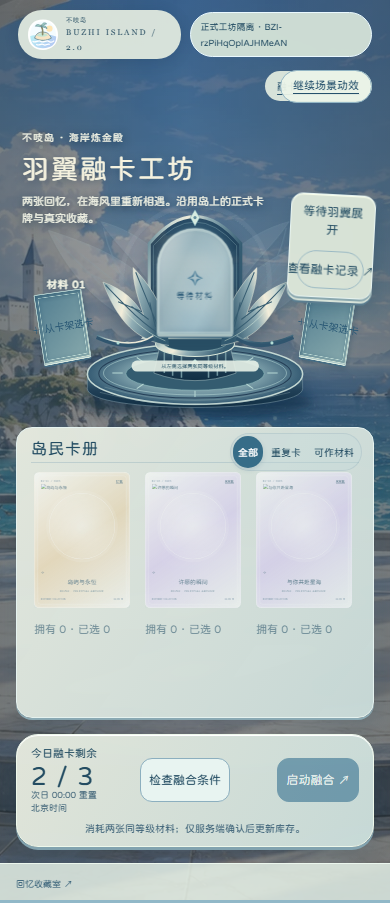
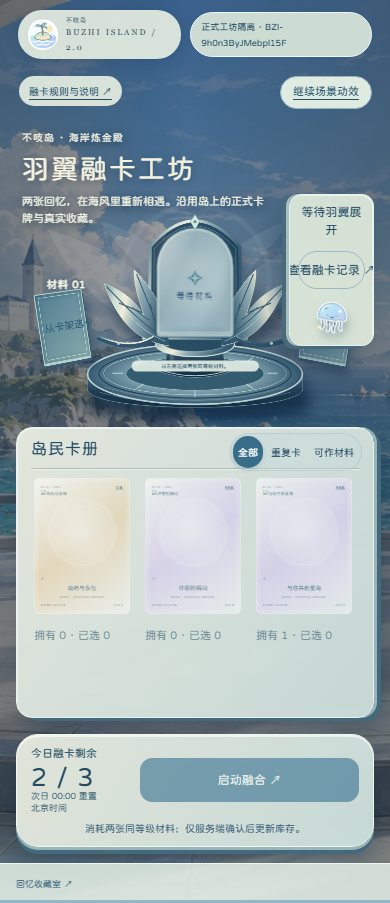
feat: simplify workshop activation and refine scene depth

diff --git a/ui-preview/fusion.html b/ui-preview/fusion.html
@@ -1,9 +1,9 @@
 <!doctype html><html lang="zh-CN"><head><meta charset="utf-8"><meta name="viewport" content="width=device-width,initial-scale=1"><meta name="theme-color" content="#d9eef1"><title>羽翼融卡工坊 · 不吱岛</title><link rel="stylesheet" href="official-card.css"><link rel="stylesheet" href="workshop-fusion.css"><link rel="stylesheet" href="workshop-integration-finish.css"><link rel="stylesheet" href="workshop-collectible-material.css"><link rel="stylesheet" href="workshop-official-card-presentation.css"><script src="official-card.js"></script><link rel="stylesheet" href="workshop-visual-repair.css"></head><body data-state="idle"><div class="atelier-world" aria-hidden="true"></div><header><a href="/" class="brand">不吱岛<span>BUZHI ISLAND / 2.0</span></a><span class="mock-badge">正在读取岛民账户…</span><button id="rules-button">融卡规则与说明 ↗</button></header><main><section class="title"><p>不吱岛 · 海岸炼金殿</p><h1>羽翼融卡工坊</h1><span>两张回忆，在海风里重新相遇。沿用岛上的正式卡牌与真实收藏。</span></section>
 <aside class="collection-cabinet"><div class="cabinet-header"><h2>岛民卡册</h2><span id="owned-count"></span></div><div class="shelf-tabs" role="group" aria-label="筛选卡片"><button data-filter="all" aria-pressed="true">全部</button><button data-filter="duplicate" aria-pressed="false">重复卡</button><button data-filter="eligible" aria-pressed="false">可作材料</button></div><p class="cabinet-note">选择两张同等级 N / R / SR；不是保底升阶。</p><div id="rack" class="card-rack" aria-label="我的正式收藏"></div><p class="shelf-foot">卡面与库存由服务器同步</p></aside>
 <section class="fusion-theatre" aria-label="羽翼融合装置"><div class="machine"><svg class="tracks" viewBox="0 0 680 430" aria-hidden="true"><defs><linearGradient id="trackInk"><stop stop-color="#dbeff3"/><stop offset=".5" stop-color="#faf8e9"/><stop offset="1" stop-color="#9ebfcb"/></linearGradient></defs><path d="M86 276C160 313 231 252 340 207C449 252 520 313 594 276" fill="none" stroke="url(#trackInk)" stroke-width="9"/><path d="M86 276C160 313 231 252 340 207C449 252 520 313 594 276" fill="none" stroke="#658eaa" stroke-width="1"/><ellipse cx="340" cy="308" rx="225" ry="72" fill="#d7ebee" fill-opacity=".1" stroke="#dcebf2" stroke-opacity=".5"/><path d="M211 310V154Q340 28 469 154V310" fill="none" stroke="#b7d2dc" stroke-width="5"/><path d="M220 310V158Q340 42 460 158V310" fill="none" stroke="#faf9eb" stroke-width="2"/></svg><div class="wing-layer" aria-hidden="true"><svg viewBox="0 0 640 300"><defs><g id="fusionWing"><path d="M312 247C233 233 116 206 38 40C130 69 190 97 238 148C202 93 164 63 139 23C223 46 279 103 309 163" fill="#edfaff" fill-opacity=".55" stroke="#d3eef6" stroke-width="1.4"/><path d="M306 238C215 211 121 140 48 49M287 225C205 179 161 116 144 35M240 198L99 85M219 182L150 95M197 163L103 116M281 216L217 89M302 225L269 116" fill="none" stroke="#b2d5e4" stroke-width="2"/></g></defs><use href="#fusionWing"/><use href="#fusionWing" transform="translate(640 0) scale(-1 1)"/></svg></div><div class="ritual-orbit" aria-hidden="true"><svg viewBox="0 0 400 400" fill="none"><g stroke="currentColor"><circle cx="200" cy="200" r="172"/><circle cx="200" cy="200" r="164" stroke-width=".6"/><circle cx="200" cy="200" r="149" stroke-dasharray="1 9" stroke-width="2"/><circle cx="200" cy="200" r="122" stroke-width=".5"/><path d="M200 14v34m0 304v34M14 200h34m304 0h34M69 69l24 24m214 214 24 24M69 331l24-24m214-214 24-24"/><path d="m200 32 6 15-6 15-6-15Zm0 306 6 15-6 15-6-15ZM32 200l15-6 15 6-15 6Zm306 0 15-6 15 6-15 6Z"/><path d="M114 309q43-12 86 0t86 0m-148 10q31-8 62 0t62 0" stroke-width=".7"/></g></svg></div><div class="fusion-beam" aria-hidden="true"></div><div class="fusion-tide" aria-hidden="true"><i></i><i></i></div><div class="reveal-sweep" aria-hidden="true"><span>✦</span><i></i><b>✧</b></div><div class="fusion-particles" aria-hidden="true"></div><div class="fusion-light" aria-hidden="true"></div><div class="device-halo" aria-hidden="true"></div><div class="central-card" id="central-card"></div><span class="device-caption">羽 翼 共 鸣 装 置</span><div class="material-slot slot-one" id="slot-one"></div><div class="material-slot slot-two" id="slot-two"></div><span class="slot-label label-one">材料 01</span><span class="slot-label label-two">材料 02</span><div class="machine-stand" aria-hidden="true"><i></i><span>BUZHI / WING TRANSMUTATION</span></div><div class="platform" aria-hidden="true"></div></div><div class="stage-status"><span id="state-tag">等待材料</span><h2 id="status-title">每一次重逢，都有它的位置。</h2><p id="status-text" role="status">从收藏架选卡，或点击材料槽移除已选卡。</p></div></section>
-<aside class="result-cabinet"><div class="cabinet-header"><h2>融合观测笺</h2><span>ISLAND ARCHIVE</span></div><div id="result-card" class="result-card"></div><div class="result-info"><span id="result-kind">结果未揭晓</span><h3 id="result-name">等待羽翼展开</h3><p id="result-copy">融合后揭晓结果；检查条件不会提前抽取或显示卡片。</p></div><div class="pool-note"><span>规则允许的结果等级</span><div id="pool-list">放入材料后显示</div><small>按公开卡逐张抽取，不能解读为等稀有度概率。</small></div><button id="history-button" class="text-button">查看融卡记录 <span id="history-count">00</span> ↗</button></aside>
-<section class="action-dock" aria-label="融合操作"><div class="quota"><small>今日融卡剩余</small><strong id="quota-value">—</strong><span><span class="desktop-status">北京时间次日 00:00 重置</span><span class="mobile-status">次日 00:00 重置<br>北京时间</span></span></div><div class="action-buttons"><button id="preview-button">检查融合条件</button><button class="primary" id="fuse-button" disabled>启动融合 ↗</button><button id="skip-animation" hidden>跳过动画，查看结果 →</button></div><p>消耗两张同等级材料；仅服务端确认后更新库存。</p></section></main><footer><span>同一海岛，另一种收藏的温柔。</span><a href="/collection.html">回忆收藏室 ↗</a><span>不吱岛 · 羽翼融卡工坊</span></footer>
-<dialog id="rules-dialog" aria-labelledby="rules-title"><div class="dialog-header"><h2 id="rules-title">原规则 → 工坊界面</h2><button class="close" aria-label="关闭规则">×</button></div><p class="important">真实库存与结果由不吱岛服务器确认；不保证升阶，也可能获得已拥有的卡。</p><ol><li>两张已公开、同等级 N / R / SR；可选不同 ID。同 ID 需拥有至少两张，不自动保留一张。</li><li>每天基础3次，另计领取的当日补发次数；按北京时间日期计数，次日 00:00 重置。</li><li>N → N / SR / SSR / UR；R → N / R / SSR / UR；SR → 所有五个等级。不保证升阶。</li><li>服务端从符合等级的公开卡中逐张均匀随机选择；不是按稀有度等概率。允许出现已拥有卡，也可能返回材料同 ID。</li><li>仅消耗两张材料并增加一张结果；该函数没有扣金币或额外材料逻辑。</li><li>正式接口要求已认证岛民，requestId 幂等；本页沿用正式认证与幂等接口。</li></ol><p>检查条件不抽取、不显示结果卡；结果由服务器生成，检查条件不会提前抽卡。规则来源与待确认项详见交付的「业务规则与接入.md」。</p></dialog>
+<aside class="result-cabinet"><div class="cabinet-header"><h2>融合观测笺</h2><span>ISLAND ARCHIVE</span></div><div id="result-card" class="result-card"></div><div class="result-info"><span id="result-kind">结果未揭晓</span><h3 id="result-name">等待羽翼展开</h3><p id="result-copy">选好材料后直接融合，结果由服务器确认后揭晓。</p></div><div class="pool-note"><span>规则允许的结果等级</span><div id="pool-list">放入材料后显示</div><small>按公开卡逐张抽取，不能解读为等稀有度概率。</small></div><button id="history-button" class="text-button">查看融卡记录 <span id="history-count">00</span> ↗</button></aside>
+<section class="action-dock" aria-label="融合操作"><div class="quota"><small>今日融卡剩余</small><strong id="quota-value">—</strong><span><span class="desktop-status">北京时间次日 00:00 重置</span><span class="mobile-status">次日 00:00 重置<br>北京时间</span></span></div><div class="action-buttons"><button class="primary" id="fuse-button" disabled>启动融合 ↗</button><button id="skip-animation" hidden>跳过动画，查看结果 →</button></div><p>消耗两张同等级材料；仅服务端确认后更新库存。</p></section></main><footer><span>同一海岛，另一种收藏的温柔。</span><a href="/collection.html">回忆收藏室 ↗</a><span>不吱岛 · 羽翼融卡工坊</span></footer>
+<dialog id="rules-dialog" aria-labelledby="rules-title"><div class="dialog-header"><h2 id="rules-title">原规则 → 工坊界面</h2><button class="close" aria-label="关闭规则">×</button></div><p class="important">真实库存与结果由不吱岛服务器确认；不保证升阶，也可能获得已拥有的卡。</p><ol><li>两张已公开、同等级 N / R / SR；可选不同 ID。同 ID 需拥有至少两张，不自动保留一张。</li><li>每天基础3次，另计领取的当日补发次数；按北京时间日期计数，次日 00:00 重置。</li><li>N → N / SR / SSR / UR；R → N / R / SSR / UR；SR → 所有五个等级。不保证升阶。</li><li>服务端从符合等级的公开卡中逐张均匀随机选择；不是按稀有度等概率。允许出现已拥有卡，也可能返回材料同 ID。</li><li>仅消耗两张材料并增加一张结果；该函数没有扣金币或额外材料逻辑。</li><li>正式接口要求已认证岛民，requestId 幂等；本页沿用正式认证与幂等接口。</li></ol><p>选好材料后可直接融合；提交前仍会校验，结果仅由服务器生成。规则来源与待确认项详见交付的「业务规则与接入.md」。</p></dialog>
 <dialog id="history-dialog" aria-labelledby="history-title"><div class="dialog-header"><h2 id="history-title">融卡记录</h2><button class="close" aria-label="关闭记录">×</button></div><p>记录来自服务器，刷新后仍可查看。</p><div id="history-list"></div></dialog>
 
 <script src="workshop-live.js"></script><script src="workshop-visual-repair.js"></script></body></html>

diff --git a/ui-preview/workshop-live.js b/ui-preview/workshop-live.js
@@ -10,11 +10,11 @@ function face(c){return '<span class="bzi-official-card-host">'+window.BziOffici
 function empty(label='等待材料'){return '<div class="empty-card"><b>✧</b><span>'+label+'</span></div>'}
 const card=id=>cards.find(c=>c.id===id),owned=id=>Number(profile?.inventory?.[id]||0),remaining=id=>owned(id)-selected.filter(x=>x===id).length;
 function valid(){if(!profile)return '请先登录岛民通行证。';if(profile.membership?.status!=='verified')return '请完成岛民认证后使用融卡。';if(profile.fusionDaily.used>=profile.fusionDaily.limit)return '今日融卡次数已用尽。';if(selected.length!==2)return '请选择两张材料卡。';const [a,b]=selected.map(card);if(!a||!b||!allowed[a.rarity]||a.rarity!==b.rarity)return '请选择同等级的N、R或SR卡。';if(owned(a.id)<(a.id===b.id?2:1)||owned(b.id)<1)return '材料卡数量不足，请刷新收藏。';return ''}
-function render(){cardSizes.disconnect();const rack=$('#rack');rack.replaceChildren();for(const c of cards.filter(c=>filter==='duplicate'?owned(c.id)>1:filter==='eligible'?allowed[c.rarity]&&owned(c.id)>0:true)){const b=document.createElement('button');b.type='button';b.className='rack-item';b.dataset.card=c.id;b.setAttribute('aria-label',c.name+' '+c.rarity+'，拥有'+owned(c.id)+'张');b.setAttribute('aria-pressed',String(selected.includes(c.id)));b.disabled=busy||!!pending||!allowed[c.rarity]||remaining(c.id)<1;b.innerHTML=face(c)+'<span class="rack-meta">拥有 '+owned(c.id)+' · 已选 '+selected.filter(x=>x===c.id).length+'</span>';b.onclick=()=>{if(selected.length===2){message('材料槽已满','请先点击材料槽移除一张。');return}selected.push(c.id);result=null;phase='idle';render();message('材料已放入','选择两张同等级材料，检查后开始融合。')};rack.append(b)}
+function render(){cardSizes.disconnect();const rack=$('#rack');rack.replaceChildren();for(const c of cards.filter(c=>filter==='duplicate'?owned(c.id)>1:filter==='eligible'?allowed[c.rarity]&&owned(c.id)>0:true)){const b=document.createElement('button');b.type='button';b.className='rack-item';b.dataset.card=c.id;b.setAttribute('aria-label',c.name+' '+c.rarity+'，拥有'+owned(c.id)+'张');b.setAttribute('aria-pressed',String(selected.includes(c.id)));b.disabled=busy||!!pending||!allowed[c.rarity]||remaining(c.id)<1;b.innerHTML=face(c)+'<span class="rack-meta">拥有 '+owned(c.id)+' · 已选 '+selected.filter(x=>x===c.id).length+'</span>';b.onclick=()=>{if(selected.length===2){message('材料槽已满','请先点击材料槽移除一张。');return}selected.push(c.id);result=null;phase='idle';render();message('材料已放入','选择两张同等级材料，选好直接融合。')};rack.append(b)}
  ['#slot-one','#slot-two'].forEach((s,i)=>{const host=$(s),c=card(selected[i]);host.classList.toggle('filled',!!c);host.replaceChildren();const b=document.createElement('button');b.type='button';b.disabled=busy||!!pending;b.className=c?'remove-card':'empty-slot';b.innerHTML=c?face(c):'＋ 从卡架选卡';b.setAttribute('aria-label',c?'移除材料'+(i+1):'选择材料'+(i+1));b.onclick=()=>{if(c)selected.splice(i,1);else $('#rack').scrollIntoView({block:'nearest'});phase='idle';result=null;render()};host.append(b)});
  const daily=profile?.fusionDaily;$('#quota-value').textContent=daily?Math.max(0,daily.limit-daily.used)+' / '+daily.limit:'—';$('#owned-count').textContent=profile?Object.values(profile.inventory||{}).reduce((a,b)=>a+b,0)+' 张收藏':'未登录';$('#history-count').textContent=String(profile?.fusions?.length||0);
  $('#central-card').innerHTML=result?face(result):empty();$('#result-card').innerHTML=result?face(result):empty('融合后揭晓');$('#result-kind').textContent=result?'服务端已确认':'结果未揭晓';$('#result-name').textContent=result?.name||'等待羽翼展开';$('#result-copy').textContent=result?'库存与次数已由服务器更新。':'只有服务端确认后才展示结果，不保证升阶或获得新卡。';const rarity=card(selected[0])?.rarity;$('#pool-list').textContent=allowed[rarity]?.join(' / ')||'放入材料后显示';
- $('#preview-button').disabled=busy||!!pending;$('#fuse-button').disabled=busy||(!pending&&(phase!=='ready'||!!valid()));$('#fuse-button').textContent=pending?'核对并重试原请求':'启动融合 ↗';$('#skip-animation').hidden=phase!=='fusing';document.body.dataset.state=phase;document.body.className='state-'+phase;if(document.hidden)document.body.classList.add('motion-suspended');document.querySelectorAll('[data-filter]').forEach(b=>b.setAttribute('aria-pressed',String(b.dataset.filter===filter)));document.querySelectorAll('.bzi-official-card-host').forEach(h=>{h.style.setProperty('--card-scale',String(h.clientWidth/300));cardSizes.observe(h)});
+ $('#fuse-button').disabled=busy||(!pending&&!!valid());$('#fuse-button').textContent=pending?'核对并重试原请求':'启动融合 ↗';$('#skip-animation').hidden=phase!=='fusing';document.body.dataset.state=phase;document.body.className='state-'+phase;if(document.hidden)document.body.classList.add('motion-suspended');document.querySelectorAll('[data-filter]').forEach(b=>b.setAttribute('aria-pressed',String(b.dataset.filter===filter)));document.querySelectorAll('.bzi-official-card-host').forEach(h=>{h.style.setProperty('--card-scale',String(h.clientWidth/300));cardSizes.observe(h)});
 }
 function savePending(){const key='buzhi-fusion-pending:'+profile.id;if(pending)sessionStorage.setItem(key,JSON.stringify(pending));else sessionStorage.removeItem(key)}
 async function refresh(){if(credential!==token())throw Error('登录账号已切换，请刷新页面。');profile=await api('me');}
@@ -22,7 +22,7 @@ async function fuse(){if(busy)return;if(credential!==token()){message('登录状
  try{const response=await api('fuse',{first:pending.first,second:pending.second,requestId:pending.requestId});if(credential!==token())throw Error('账号已切换；请回到原账号核对结果。');profile=response.profile;const received=card(response.card.id);if(!received)throw Error('结果已确认但卡册暂未同步，请保留原请求刷新核对。');pending=null;savePending();const reveal=()=>{timer=null;finishReveal=null;if(credential!==token()){profile=null;selected=[];result=null;busy=false;phase='error';render();message('登录账号已切换','请刷新页面后核对当前账号。');return}result=received;selected=[];busy=false;phase='success';render();message('融合已确认','新卡已进入收藏，材料和次数以服务器记录为准。')};finishReveal=reveal;if(skip||matchMedia('(prefers-reduced-motion: reduce)').matches)reveal();else timer=setTimeout(reveal,1200)}
  catch(e){busy=false;phase='error';if(pending){if(!wasUncertain&&e.status>=400&&e.status<500){pending=null;savePending();try{await refresh()}catch{}message('融合未完成',e.message)}else{pending.uncertain=true;savePending();message('结果待核对',e.message+'；材料已锁定，请点击重试原请求，不会新建一次融合。')}}render()}
 }
-$('#preview-button').onclick=()=>{result=null;const error=valid();phase=error?'insufficient':'ready';render();message(error?'条件不足':'条件已满足',error||'将消耗两张材料和一次融卡机会；结果在融合后揭晓。')};$('#fuse-button').onclick=fuse;$('#skip-animation').onclick=()=>{skip=true;if(timer){clearTimeout(timer);finishReveal?.()}};
+$('#fuse-button').onclick=fuse;$('#skip-animation').onclick=()=>{skip=true;if(timer){clearTimeout(timer);finishReveal?.()}};
 document.querySelectorAll('[data-filter]').forEach(b=>b.onclick=()=>{filter=b.dataset.filter;render()});$('#rules-button').onclick=()=>$('#rules-dialog').showModal();$('#history-button').onclick=()=>{const list=$('#history-list');list.replaceChildren();for(const f of profile?.fusions||[]){const p=document.createElement('p');p.textContent=(card(f.first)?.name||f.first)+' ＋ '+(card(f.second)?.name||f.second)+' → '+(card(f.result)?.name||f.result)+' · '+new Date(f.at).toLocaleString('zh-CN',{timeZone:'Asia/Shanghai'});list.append(p)}if(!list.childNodes.length)list.textContent='暂无融卡记录。';$('#history-dialog').showModal()};document.querySelectorAll('dialog .close').forEach(b=>b.onclick=()=>b.closest('dialog').close());
  const particles=$('.fusion-particles');for(let i=0;i<30;i++){const p=document.createElement('i');p.style.setProperty('--dx',Math.round(Math.cos(i*2.4)*170)+'px');p.style.setProperty('--dy',Math.round(Math.sin(i*2.4)*110)+'px');p.style.setProperty('--size','4px');particles.append(p)}document.addEventListener('visibilitychange',()=>document.body.classList.toggle('motion-suspended',document.hidden));
 (async()=>{render();message('正在同步收藏','正在读取正式卡池与岛民库存…');try{const [catalog,assets]=await Promise.all([api('catalog'),api('assets-manifest')]);cards=catalog.cards;manifest=assets;if(credential){await refresh();try{const saved=JSON.parse(sessionStorage.getItem('buzhi-fusion-pending:'+profile.id)||'null');if(saved&&typeof saved.first==='string'&&typeof saved.second==='string'&&/^[a-f0-9-]{36}$/i.test(saved.requestId)){pending={...saved,uncertain:true};selected=[saved.first,saved.second]}}catch{}}$('.mock-badge').textContent=profile?profile.nickname+' · '+profile.id:'请先登录岛民通行证';$('.mock-badge').onclick=()=>{if(!profile)location.href='/passport.html'};render();message(pending?'有待核对的融合':'等待材料',pending?'原材料已保留，请重试原请求核对。':profile?'从左侧选择两张同等级材料。':'请先到通行证页面登录；无需重新注册。')}catch(e){phase='error';render();message('暂时无法读取收藏',e.message+'；请刷新重试。')}})();

diff --git a/ui-preview/workshop-visual-repair.js b/ui-preview/workshop-visual-repair.js
@@ -1,7 +1,7 @@
 /* Decorative feedback only. No network, card mapping, inventory or settlement. */
 (()=>{'use strict';const brand=document.querySelector('.brand');if(brand&&!brand.querySelector('img')){const wordmark=document.createElement('span');wordmark.className='brand-wordmark';wordmark.append(...brand.childNodes);const logo=document.createElement('img');logo.className='island-logo';logo.src='/assets/island-mark.svg';logo.alt='';brand.append(logo,wordmark)}
-let paused=false;const button=document.createElement('button');button.type='button';button.className='motion-control';button.textContent='暂停场景动效';button.setAttribute('aria-pressed','false');button.onclick=()=>{paused=!paused;document.body.classList.toggle('effects-paused',paused);button.setAttribute('aria-pressed',String(paused));button.textContent=paused?'继续场景动效':'暂停场景动效'};document.querySelector('header').append(button);
-new MutationObserver(()=>{if(paused&&!document.body.classList.contains('effects-paused'))document.body.classList.add('effects-paused')}).observe(document.body,{attributes:true,attributeFilter:['class']});
+const button=document.createElement('button');button.type='button';button.className='motion-control';button.textContent='暂停场景动效';button.setAttribute('aria-pressed','false');button.onclick=()=>{const paused=document.documentElement.classList.toggle('effects-paused');button.setAttribute('aria-pressed',String(paused));button.textContent=paused?'继续场景动效':'暂停场景动效'};document.querySelector('header').append(button);
 const device=document.createElement('img');device.className='ritual-device';device.src='/assets/wing-ritual-device.svg';device.alt='';device.setAttribute('aria-hidden','true');document.querySelector('.machine').prepend(device);
[1 lines of base64/hex data omitted]
 const layer=document.createElement('div');layer.className='scene-motes';layer.setAttribute('aria-hidden','true');for(let i=0;i<14;i++){const p=document.createElement('i');p.style.setProperty('--x',(i*37%100)+'%');p.style.setProperty('--y',(i*23%100)+'%');p.style.setProperty('--delay',(-i*.43)+'s');layer.append(p)}document.body.prepend(layer);document.querySelectorAll('.fusion-particles i').forEach((p,i)=>p.style.setProperty('--delay',(-i*.073)+'s'));
 })();

diff --git a/ui-preview/workshop-visual-repair.css b/ui-preview/workshop-visual-repair.css
@@ -23,3 +23,12 @@ body.effects-paused *,body.effects-paused *::before,body.effects-paused *::after
 .atelier-world{filter:brightness(.66) saturate(.78)}.atelier-world:after{background:linear-gradient(90deg,#15384f4d,#12314812 48%,#15384f4d)!important}.title{color:#f2f4e5;text-shadow:0 2px 10px #102f48}.title>span,.title>p{color:#f0f2e4}.collection-cabinet,.result-cabinet{background:linear-gradient(125deg,#e5e9defa,#c9dbd9f5);color:#234c62}.cabinet-note,.shelf-foot,.rack-meta,.result-info p,.pool-note{color:#31596e}.brand,.motion-control,header>button{background:#e3ece0ed;border-radius:24px;padding:6px 12px}.brand{box-shadow:0 3px 14px #13364e30}.mock-badge{background:#d7e5d9ed;color:#234c62}.ritual-device{position:absolute;inset:0;width:100%;height:450px;z-index:1;pointer-events:none;filter:drop-shadow(0 18px 16px #102f4c66)}.machine>.platform,.machine>.machine-stand,.machine>.device-halo,.machine>.tracks{display:none}.machine:after{left:calc(50% - 137px);top:36px;width:274px;height:274px;border-color:#accfc859;z-index:0}.device-caption{top:332px;color:#d2e8df;font-size:9px;text-shadow:0 1px #18364b}.central-card{top:75px}.material-slot{background:linear-gradient(135deg,#527d90,#87a9ac);border-color:#adc9c8}.slot-label{color:#f1f2e3;text-shadow:0 1px 5px #12384f}.stage-status h2,.stage-status p{color:#eef3e5;text-shadow:0 1px 7px #18364c}.stage-status>span{background:#d5e5d5;color:#234d63}.action-dock{background:linear-gradient(120deg,#e4e8dcfa,#c9dcd9fa);color:#234c62}.scene-motes{opacity:.75}body[data-state=fusing] .ritual-device{filter:drop-shadow(0 0 20px #91dfd4aa)}body[data-state=fusing] .atelier-world{filter:brightness(.42) saturate(.7)}
 @media(max-width:760px){.brand{padding:4px 9px}.title>span{max-width:245px}.ritual-device{height:450px}.stage-status p{color:#214c62;text-shadow:none}.result-cabinet{background:#dce6d8f5}.title h1{color:#f2f4e5}}
 .title h1{color:#f5f2df;text-shadow:0 2px 8px #15344e80}.brand-wordmark{color:#254b60}
+
+/* Depth through occlusion and cast shadows, not extra card overlays. */
+.collection-cabinet{box-shadow:inset 1px 1px 0 #fff8,3px 0 0 #99b4b9,7px 3px 0 #46687b,16px 20px 32px #0b2a486b;transform:perspective(1200px) rotateY(2deg)}.result-cabinet{box-shadow:inset -1px 1px 0 #fff8,-3px 0 0 #a6bfc0,-7px 3px 0 #496a7b,-15px 20px 32px #0b2a485c;transform:perspective(1200px) rotateY(-2deg)}.cabinet-header{padding-bottom:12px;border-bottom:1px solid #72929d75;box-shadow:0 1px #f7f5dfc7}.ritual-device{transform:perspective(1000px) rotateX(4deg);transform-origin:50% 85%;filter:drop-shadow(8px 24px 13px #09233c94)}.material-slot{box-shadow:inset 1px 2px 8px #173c5554,0 3px 0 #c0d1c9,2px 8px 0 #365b72,6px 19px 19px #102d466e}.action-dock{box-shadow:inset 0 2px #fff9,0 3px 0 #98b5b9,0 7px 0 #44697c,0 20px 28px #102d4661}.action-buttons{justify-content:flex-end}.action-buttons #fuse-button{min-width:200px}.atelier-sticker{display:block;position:relative;width:76px;height:76px;margin:16px 0 0 auto;filter:drop-shadow(3px 7px 4px #1e496447);transform:rotate(9deg);animation:sticker-float 5s ease-in-out infinite}.foreground-tide{position:fixed;bottom:0;left:-10%;width:120%;height:16%;pointer-events:none;z-index:0;background:radial-gradient(ellipse at 12% 100%,#a1ccce66,transparent 65%),radial-gradient(ellipse at 90% 110%,#d1dfd54d,transparent 64%);animation:foreground-drift 12s ease-in-out infinite alternate}.effects-paused *{animation-play-state:paused!important}@keyframes sticker-float{50%{transform:translateY(-6px) rotate(5deg)}}@keyframes foreground-drift{to{transform:translate3d(16px,-5px,0);opacity:.6}}
+@media(max-width:760px){.collection-cabinet,.result-cabinet{transform:none}.atelier-sticker{width:40px;height:40px;margin:8px auto 0}.action-buttons #fuse-button{min-width:0;width:100%}.foreground-tide{height:9%}}
+@media(prefers-reduced-motion:reduce){.atelier-sticker,.foreground-tide{animation:none!important}}
+@media(max-width:760px){header>#rules-button{position:absolute;left:19px;right:auto;top:76px;min-height:30px;font-size:10px;padding:4px 10px}.motion-control{top:76px}}
+.machine>.device-caption{display:none}
+
+html.effects-paused *,html.effects-paused *::before,html.effects-paused *::after{animation-play-state:paused!important}

diff --git a/docs/admin-fusion/VISUAL-REPAIR-20261105.md b/docs/admin-fusion/VISUAL-REPAIR-20261105.md
@@ -17,3 +17,14 @@ workshop-live.js及official-card.js/css未改，完整文件哈希记录visual-r
 按Work本轮追加补丁，保留已有修复并追加背景brightness(.66)/saturate(.78)、奶白标题/深字面板与中央装置。新增assets/wing-ritual-device.svg，静态矢量通过原受控/assets SVG路由引用；去掉补丁中重复内嵌SVG数据，不增加fetch或业务逻辑。仅隐藏旧platform/machine-stand/device-halo/tracks，实际材料和结果节点仍由原live控制器处理。
 
 1440/390真实浏览器确认SVG加载、旧底座display:none、背景亮度、字体加载、无横向溢出、卡册裁切、暂停伪元素与减少动态；原融合响应丢失/刷新/原UUID重试回归以及fusion-quota-integration再次通过。正式卡及live控制器哈希不变。截图已更新为本轮合成环境。未部署生产，未操作真实账号或资产。
+
+
+## 最新补丁：直接融合与底座精简
+
+已移除独立检查按钮，按钮继续受 busy、pending 与 valid() 控制；fuse() 提交前再次校验。只修改控制器按钮绑定和提示，没有整份覆盖 Work 的控制器。原 valid()、fuse() 文本逐字一致，见 direct-fusion-preservation.json。因此此前整文件哈希不再代表当前控制器；official-card.js/css 未改。
+
+采用最新平滑承托 SVG，移除竖条及大菱形，隐藏 device-caption；加入柜体厚度、阴影、水母贴纸及前景薄雾。暂停状态保存在 documentElement，不受业务 render 重置 body class 影响，包含伪元素暂停与 reduced-motion 支持。保留本地背景、岛标和装置静态资源路径。
+
+验证：node tests/winged-workshop-browser.cjs 在隔离 SQLite 中通过 1440/390 两个视口；一张材料禁用、两张有效材料可直接启动；服务端成功但响应丢失后刷新重试仅保留一次融合记录；动效暂停、减少动效和无横向溢出通过。node --check 两个修改脚本通过。截图为 winged-repaired-1440.png、winged-repaired-390.png。测试截图无卡面上传的合成环境不等于正式卡面缺失。
+
+本轮未部署、未访问生产库。手机观测笺空间仍偏窄，后续视觉验收可继续调整，不属于本轮业务校验通过的保证。
